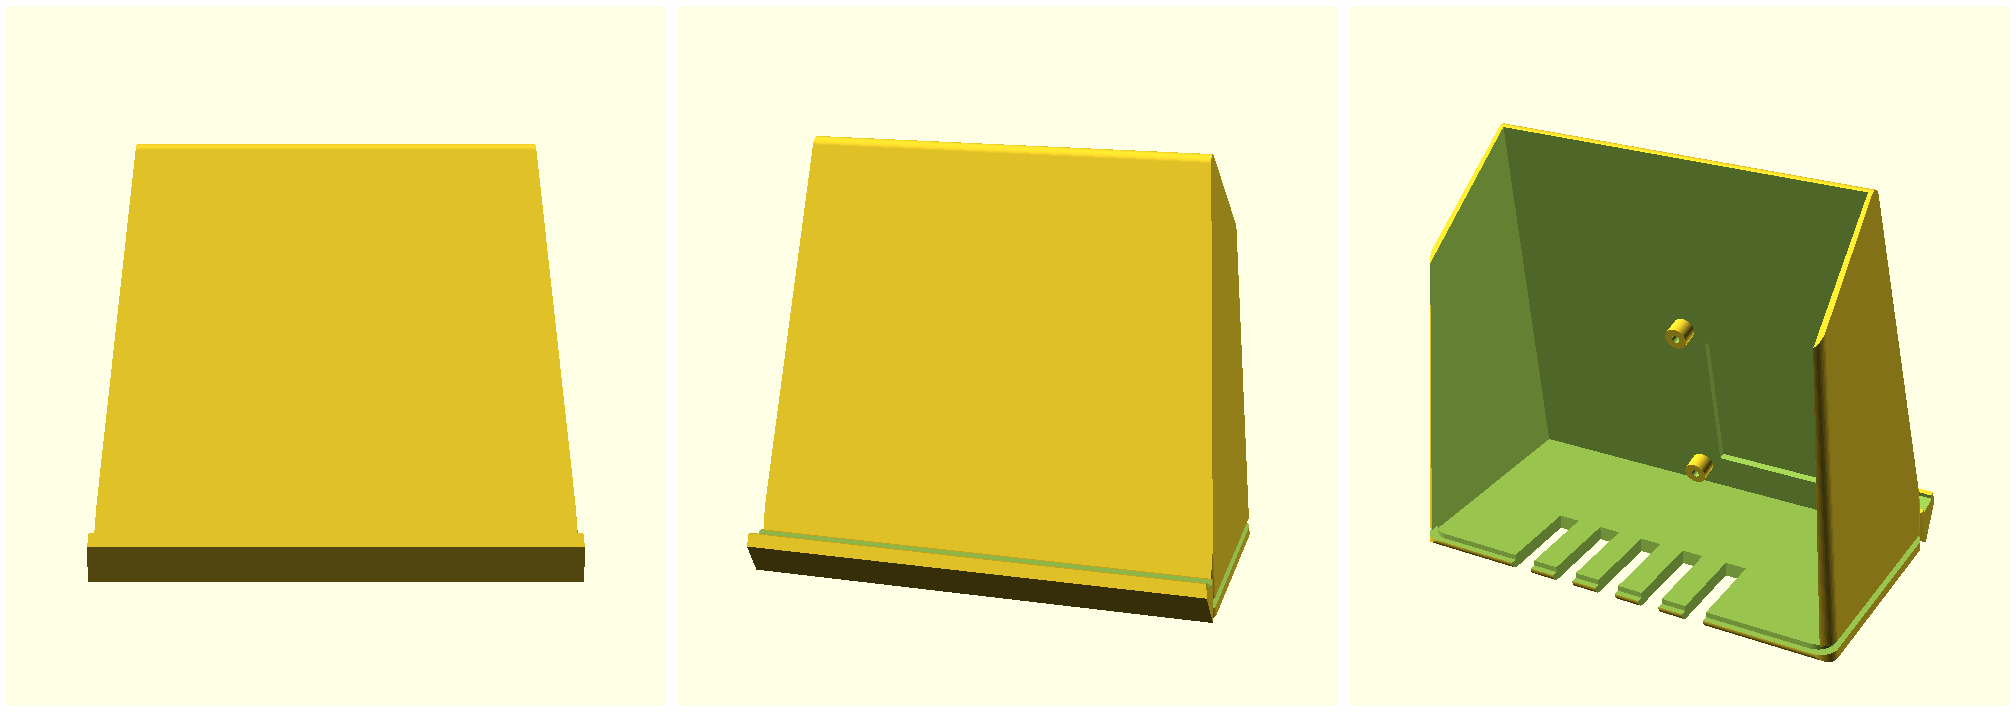
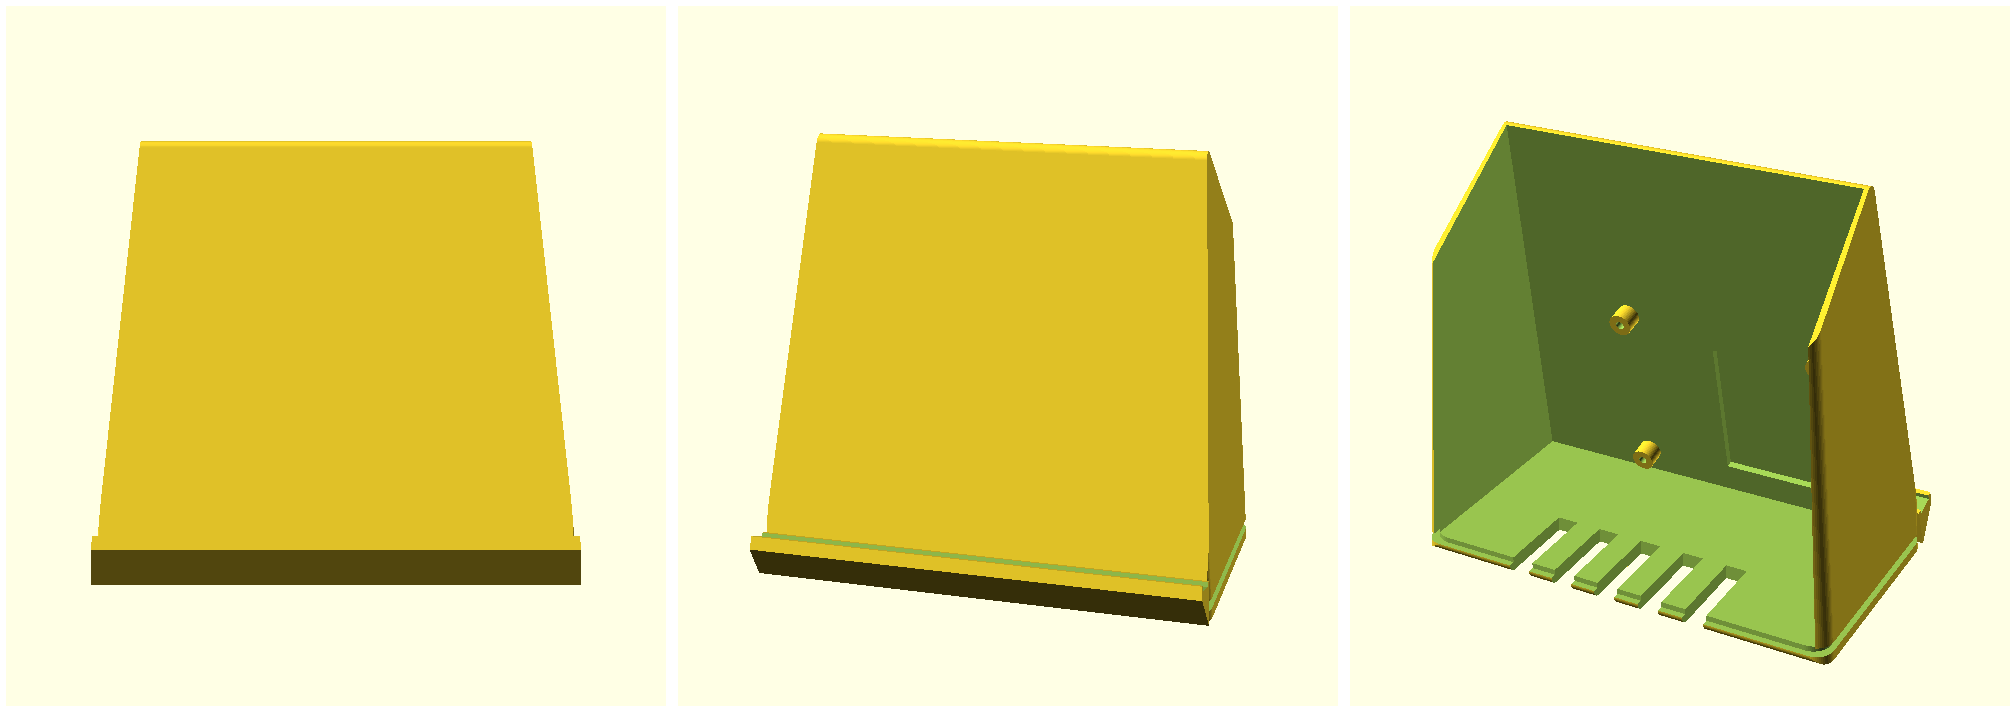
Take the HAT's coil position from Waveshare's drawing
No reason to make anyone measure a documented board. Waveshare publish a
dimension drawing for the PN532 NFC HAT: it is 85 x 56 mm - the same
footprint as the Pi, not the short 65 mm HAT assumed here - and the coil
panel is 37.4 x 37.8 mm, centred 17.0 mm along the long axis and 2.3 mm
across from the board centre, away from the GPIO header. Measured off
that drawing by scaling from its own 85.00 and 56.00 dimensions.

The model now derives the Pi's position from where the tag sits on the
card, which is the one thing only the owner can know, rather than asking
for the coil offset. hat_flipped mirrors the HAT end-for-end, which is
usually what decides whether the coil can reach the tag at all.

diff --git a/hardware/README.md b/hardware/README.md
@@ -45,9 +45,22 @@ Defaults give a 112 × 110 mm face, 62 mm deep, for a 95 mm card. Everything is
 parametric — card size, lean, lip, panel thickness, Pi hole spacing, antenna
 window — at the top of `stand.scad`.
 
-**Set `ant_dx` / `ant_dy` from your own HAT.** That's where the PN532's coil
-sits relative to the centre of the Pi board, and it positions the thinned
-window. The default assumes the antenna is off to one side, as on this HAT.
+**Measure the tag, not the HAT.** The HAT is already in the file: Waveshare's
+own dimension drawing gives an 85 x 56 mm board — the same footprint as the Pi,
+not a short 65 mm HAT — with a 37.4 x 37.8 mm coil panel centred 17.0 mm along
+the long axis and 2.3 mm across from the board centre, on the far side from the
+GPIO header.
+
+So the only thing to measure is where the tag sits on your cards. Set `tag_dx` /
+`tag_dy` — its centre relative to the card's centre, seen from the **front**,
++x right and +y up. Stickers applied with the tag at the lower right *as seen
+from the back* land at the lower left from the front, so both are negative.
+
+The model then works out where the Pi has to go to put the coil on the tag, and
+`hat_flipped` mirrors the offset by turning the HAT end-for-end — which is
+usually what decides whether the coil can reach the tag at all. Three assertions
+catch the ways this goes wrong: bosses in the side wall, bosses in the base, and
+a coil window running off the edge of the card.
 
 The panel is thinned **from behind**, so the outside stays flat and rigid
 while the reader only has `window_t` of plastic to see through.
